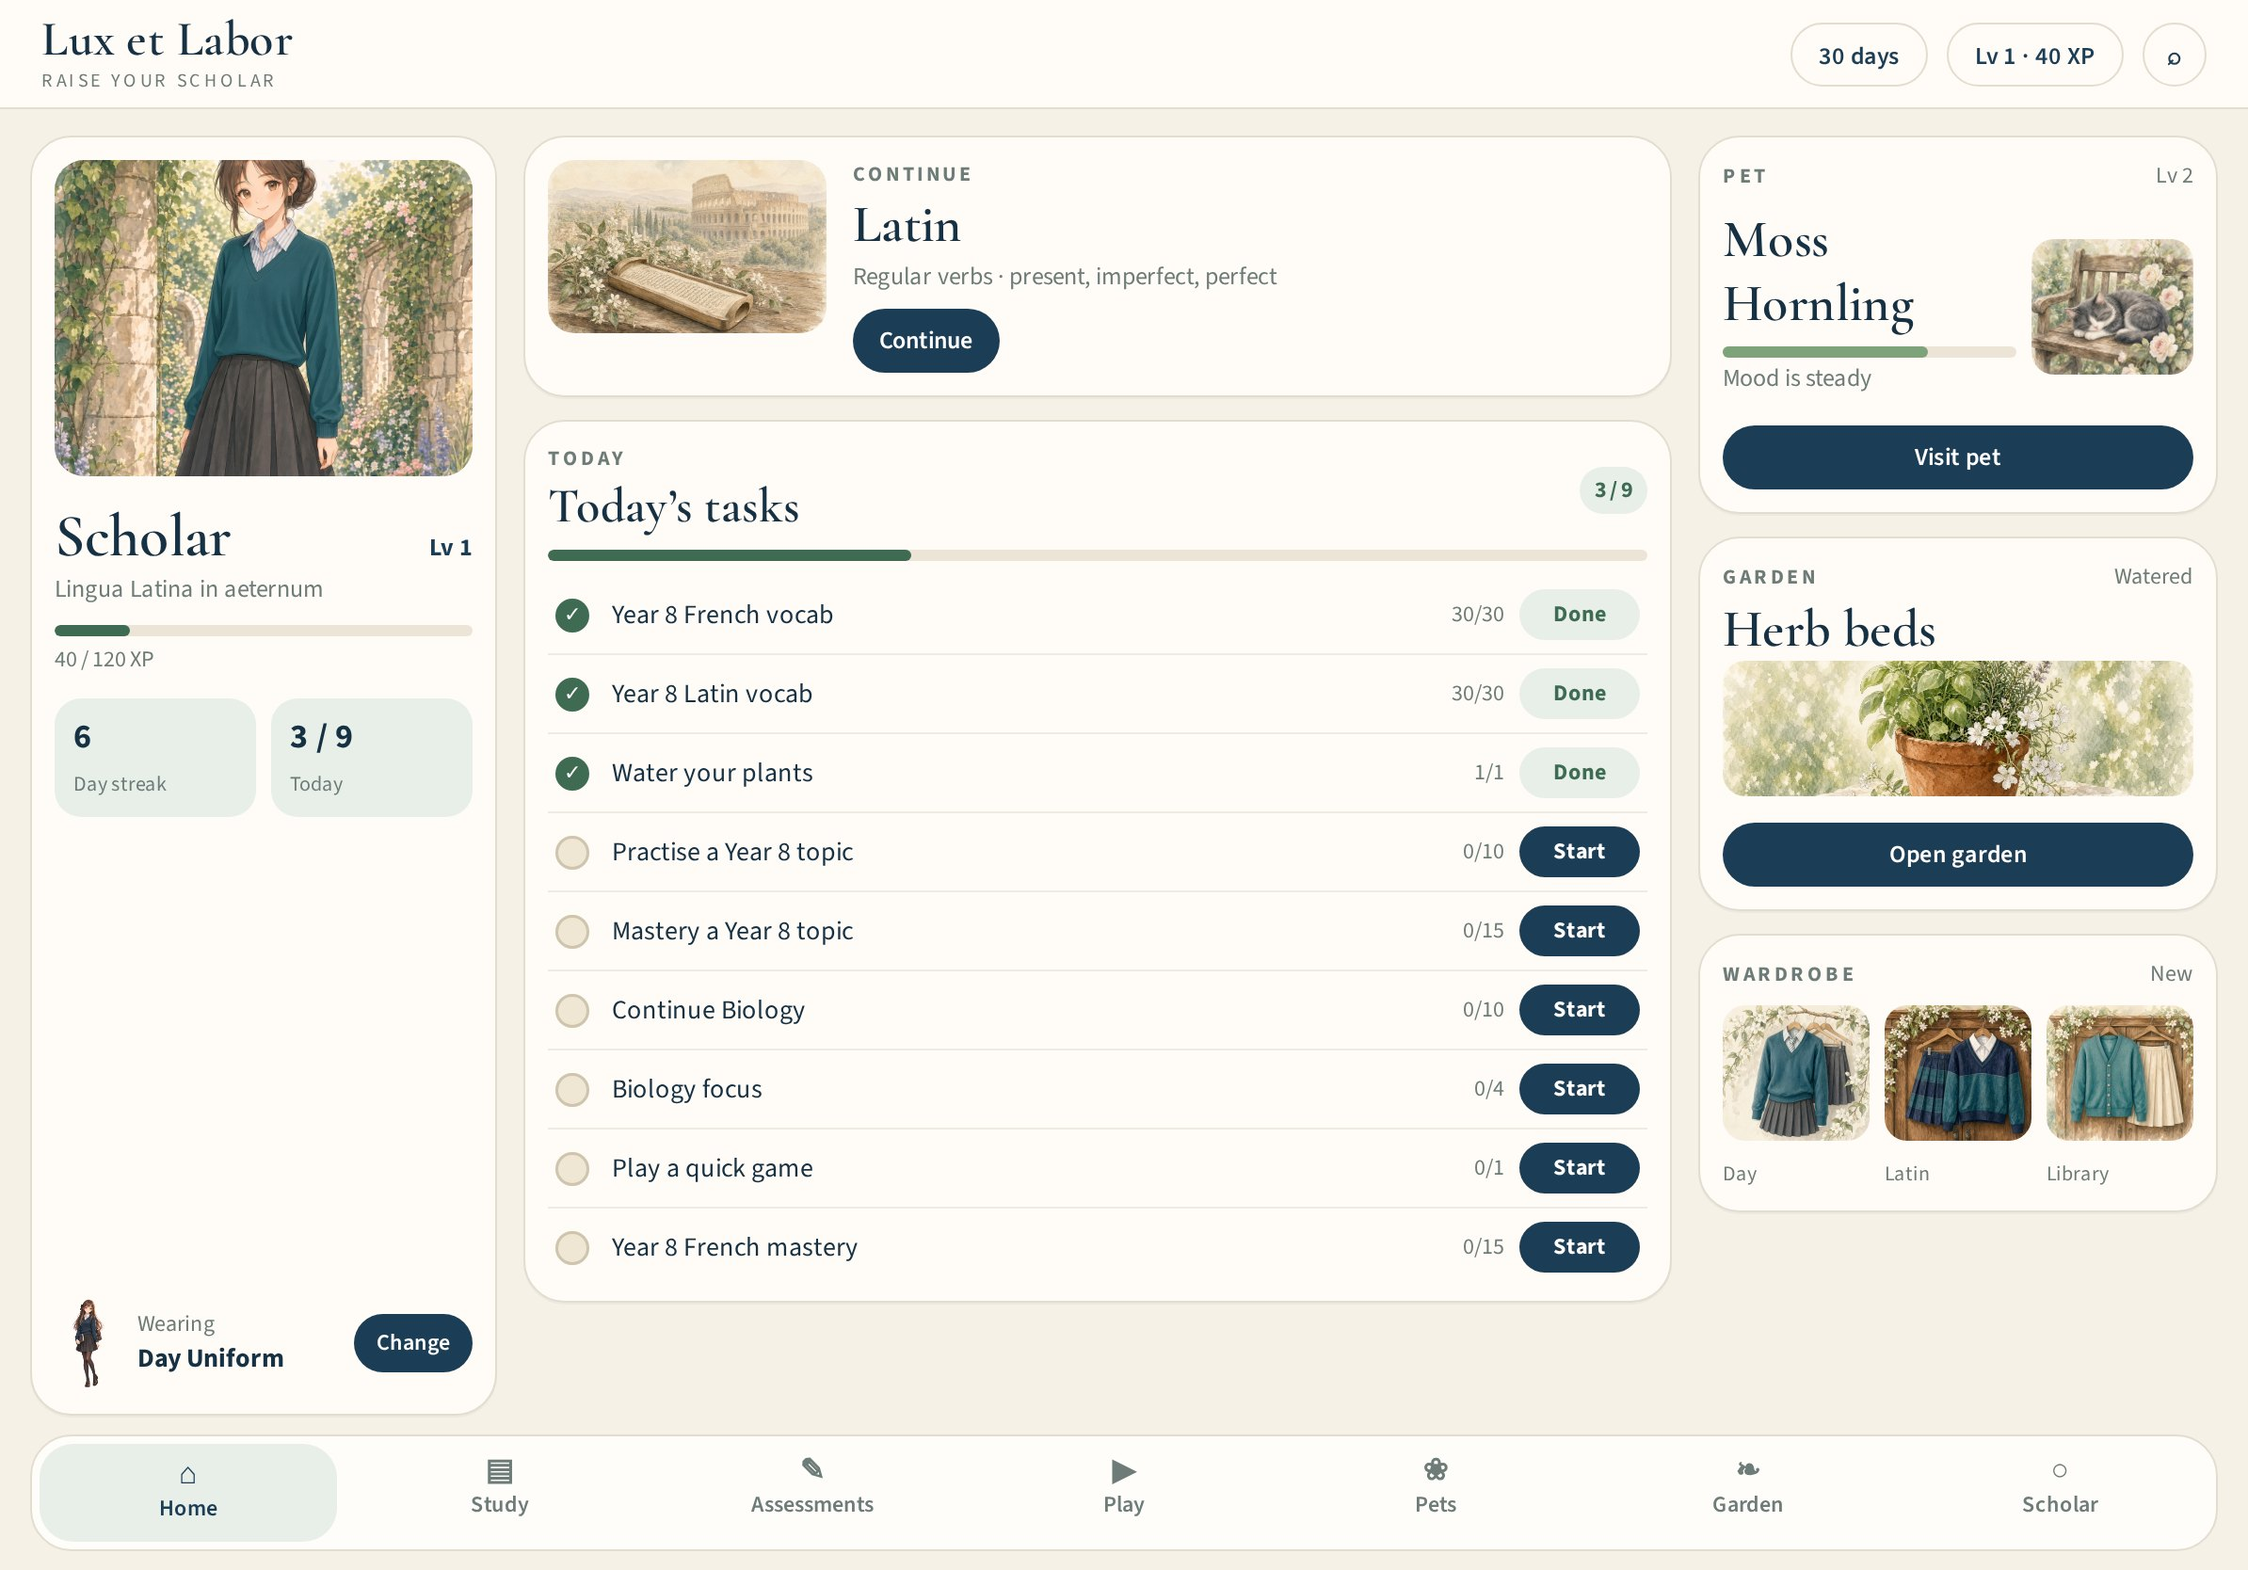
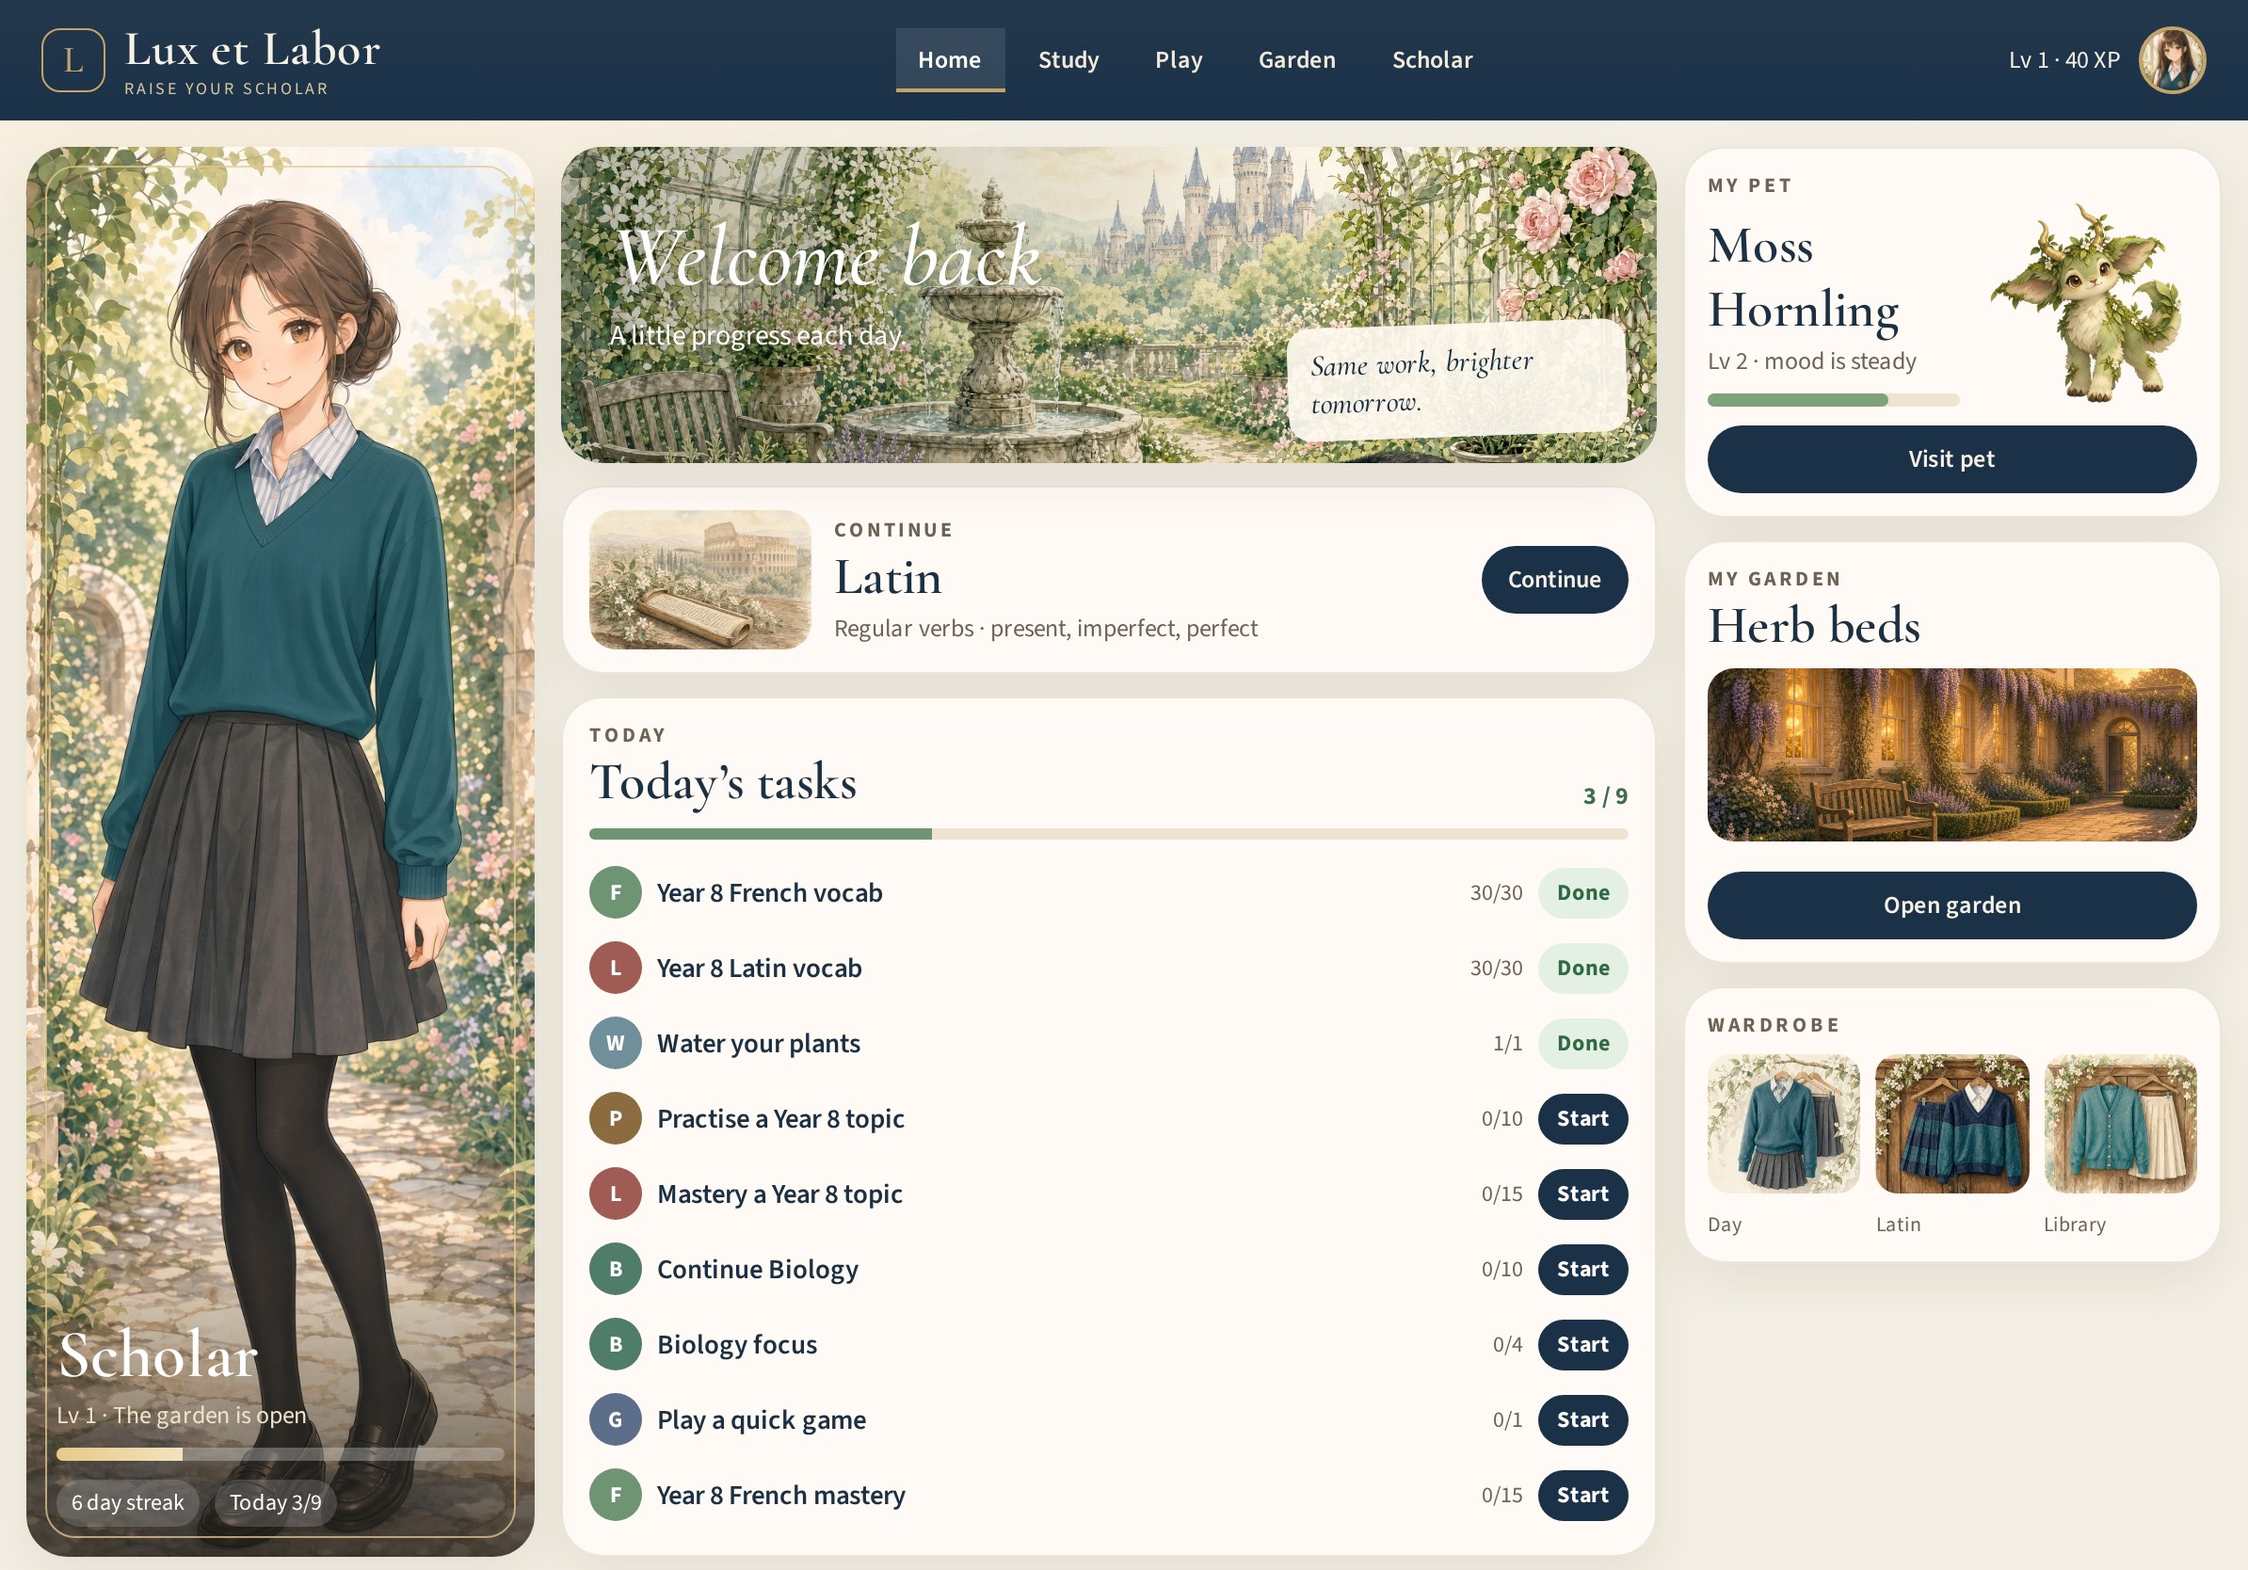
Restyle the home preview as a painted dashboard.

diff --git a/preview/index.html b/preview/index.html
@@ -3,20 +3,271 @@
 <head>
 <meta charset="utf-8">
 <meta name="viewport" content="width=device-width,initial-scale=1">
-<title>Home layout preview · Lux et Labor</title>
+<title>Home preview · Lux et Labor</title>
+<link rel="stylesheet" href="https://fonts.googleapis.com/css2?family=Cormorant+Garamond:ital,wght@0,500;0,600;1,500;1,600&family=Source+Sans+3:wght@400;500;600;700&display=swap">
 <style>
-  body{margin:0;background:#f6f1e7;font-family:Georgia,serif;color:#163044}
-  header{padding:16px 20px}
-  h1{font-size:22px;font-weight:500;margin:0}
-  p{margin:6px 0 0;font-family:-apple-system,sans-serif;font-size:14px;color:#5c6b66}
-  img{display:block;width:min(1194px,100%);height:auto;margin:12px auto 24px;border-radius:12px}
+  :root {
+    --ink: #1c3044;
+    --navy: #1a3148;
+    --gold: #c4a46a;
+    --cream: #f4efe4;
+    --card: rgba(255,251,245,.94);
+    --muted: #6e6256;
+    --line: rgba(90,70,45,.12);
+  }
+  * { box-sizing: border-box; }
+  html, body { margin: 0; height: 100%; }
+  body {
+    min-height: 100%;
+    font-family: "Source Sans 3", sans-serif;
+    color: var(--ink);
+    background:
+      radial-gradient(900px 420px at 10% -10%, rgba(255,236,205,.7), transparent 60%),
+      var(--cream);
+  }
+  .shell {
+    min-height: 100vh;
+    display: grid;
+    grid-template-rows: 64px 1fr 70px;
+  }
+  header {
+    display: flex;
+    align-items: center;
+    justify-content: space-between;
+    padding: 0 22px;
+    background: linear-gradient(180deg, #24384c, #1a3148);
+    color: #f7f1e6;
+  }
+  .brand { display: flex; align-items: center; gap: 10px; }
+  .mark {
+    width: 34px; height: 34px; border-radius: 10px;
+    display: grid; place-items: center;
+    border: 1px solid var(--gold);
+    color: var(--gold);
+    font-family: "Cormorant Garamond", serif;
+    font-size: 20px;
+  }
+  .brand b { font-family: "Cormorant Garamond", serif; font-size: 26px; font-weight: 600; letter-spacing: .02em; }
+  .brand small { display: block; letter-spacing: .16em; font-size: 9px; color: #d9c7a2; }
+  nav.top { display: flex; gap: 6px; }
+  nav.top a {
+    color: #f3eadc; text-decoration: none; font-size: 13px; font-weight: 600;
+    padding: 8px 12px; border-radius: 999px;
+  }
+  nav.top a.on { background: rgba(255,255,255,.1); color: #fff; box-shadow: inset 0 -2px 0 var(--gold); border-radius: 0; }
+  .who { display: flex; align-items: center; gap: 10px; font-size: 13px; }
+  .avatar {
+    width: 36px; height: 36px; border-radius: 50%; object-fit: cover; object-position: 50% 15%;
+    border: 2px solid var(--gold);
+  }
+  main {
+    display: grid;
+    grid-template-columns: 270px minmax(0,1fr) 286px;
+    gap: 14px;
+    padding: 14px;
+    min-height: 0;
+  }
+  .portrait, .banner, .panel, .pet, .garden, .rewards {
+    border-radius: 22px;
+    overflow: hidden;
+    box-shadow: 0 10px 28px rgba(48,36,20,.08);
+  }
+  .portrait {
+    position: relative;
+    background: #d7c4a4;
+    min-height: 100%;
+  }
+  .portrait img.full { width: 100%; height: 100%; object-fit: cover; object-position: 50% 12%; display: block; }
+  .portrait:after {
+    content: "";
+    position: absolute; inset: 10px;
+    border: 1px solid rgba(228,201,145,.75);
+    border-radius: 16px;
+    pointer-events: none;
+  }
+  .portrait .cap {
+    position: absolute; left: 0; right: 0; bottom: 0;
+    padding: 54px 16px 16px;
+    background: linear-gradient(transparent, rgba(28,24,18,.78));
+    color: #fff;
+  }
+  .portrait h2 { margin: 0; font-family: "Cormorant Garamond", serif; font-size: 36px; font-weight: 600; }
+  .portrait p { margin: 2px 0 8px; font-size: 13px; color: #f0e2cc; }
+  .xp { height: 7px; border-radius: 99px; background: rgba(255,255,255,.28); overflow: hidden; }
+  .xp i { display: block; width: 28%; height: 100%; background: linear-gradient(90deg, #e7c98a, #f3e2bc); }
+  .chips { display: flex; gap: 8px; margin-top: 10px; }
+  .chips span { background: rgba(255,255,255,.16); border-radius: 999px; padding: 4px 8px; font-size: 12px; }
+  .col { display: flex; flex-direction: column; gap: 12px; min-width: 0; }
+  .banner {
+    position: relative; height: 168px; background: #c9b89a;
+  }
+  .banner img { width: 100%; height: 100%; object-fit: cover; object-position: 50% 45%; display: block; }
+  .banner .words {
+    position: absolute; inset: 0;
+    padding: 22px 26px;
+    background: linear-gradient(90deg, rgba(28,40,32,.28), transparent 70%);
+    color: #fff;
+  }
+  .banner h2 {
+    margin: 8px 0 0;
+    font-family: "Cormorant Garamond", serif;
+    font-weight: 500;
+    font-style: italic;
+    font-size: 46px;
+    text-shadow: 0 2px 12px rgba(0,0,0,.25);
+  }
+  .banner p { margin: 4px 0 0; font-size: 15px; text-shadow: 0 1px 6px rgba(0,0,0,.3); }
+  .note {
+    position: absolute; right: 16px; bottom: 14px;
+    width: 180px; background: rgba(255,250,240,.92); color: var(--ink);
+    border-radius: 12px; padding: 10px 12px; transform: rotate(-2deg);
+    font-family: "Cormorant Garamond", serif; font-style: italic; font-size: 16px;
+  }
+  .panel { background: var(--card); border: 1px solid var(--line); padding: 12px 14px; }
+  .continue { display: grid; grid-template-columns: 118px 1fr auto; gap: 12px; align-items: center; }
+  .continue img { width: 118px; height: 74px; object-fit: cover; border-radius: 14px; }
+  .eyebrow { margin: 0; letter-spacing: .16em; font-size: 11px; color: var(--muted); font-weight: 700; }
+  h3 { margin: 0; font-family: "Cormorant Garamond", serif; font-size: 28px; font-weight: 600; }
+  .sub { margin: 2px 0 0; color: var(--muted); font-size: 13px; }
+  button.go, button.wide {
+    border: 0; background: var(--navy); color: #f7f1e6;
+    border-radius: 999px; padding: 9px 14px; font: 600 13px "Source Sans 3", sans-serif;
+  }
+  .headrow { display: flex; justify-content: space-between; align-items: end; }
+  .count { font-size: 13px; color: #3e6b52; font-weight: 700; }
+  .bar { height: 6px; background: #efe4d2; border-radius: 99px; margin: 8px 0; overflow: hidden; }
+  .bar i { display: block; width: 33%; height: 100%; background: #6e9474; }
+  ul { list-style: none; margin: 0; padding: 0; }
+  li {
+    display: grid; grid-template-columns: 28px 1fr auto auto; gap: 8px;
+    align-items: center; padding: 6px 0;
+  }
+  .ico { width: 28px; height: 28px; border-radius: 50%; display: grid; place-items: center; color: white; font-size: 12px; font-weight: 700; }
+  .f { background: #6e9474; } .l { background: #a15b55; } .w { background: #6f8f9a; }
+  .b { background: #4f7d6a; } .p { background: #8b6b3f; } .g { background: #5d6e8a; }
+  .name { font-size: 14.5px; font-weight: 600; }
+  .meta { color: var(--muted); font-size: 12px; }
+  .pill { border-radius: 999px; padding: 5px 10px; font-size: 12px; font-weight: 700; }
+  .done { background: #e5f0e4; color: #2f6a45; }
+  .start { background: var(--navy); color: white; }
+  .pet, .garden, .rewards { background: var(--card); border: 1px solid var(--line); padding: 12px; }
+  .pet { overflow: visible; }
+  .pet-row { display: grid; grid-template-columns: 1fr 120px; gap: 6px; align-items: end; }
+  .pet-row img { width: 112px; height: 112px; object-fit: contain; object-position: center bottom; }
+  .mood { height: 7px; background: #efe4d2; border-radius: 99px; margin-top: 8px; }
+  .mood i { display: block; width: 72%; height: 100%; background: #7ea37a; border-radius: 99px; }
+  button.wide { width: 100%; margin-top: 10px; }
+  .garden img { width: 100%; height: 92px; object-fit: cover; border-radius: 14px; margin-top: 6px; }
+  .tiles { display: grid; grid-template-columns: repeat(3,1fr); gap: 8px; margin-top: 8px; }
+  .tiles img { width: 100%; height: 74px; object-fit: cover; border-radius: 12px; }
+  .tiles span { display: block; font-size: 11px; color: var(--muted); margin-top: 3px; }
+  footer {
+    display: grid; grid-template-columns: repeat(7,1fr);
+    margin: 0 14px 10px; background: #fffaf3; border: 1px solid var(--line); border-radius: 20px;
+  }
+  footer a { text-align: center; text-decoration: none; color: #7a6d60; font-size: 12px; font-weight: 650; padding: 8px 0; }
+  footer a.on { color: var(--navy); }
+  .hint { display: none; }
+  @media (max-width: 980px) {
+    .hint { display: block; padding: 10px 16px; background: #1a3148; color: #f4ead8; font-size: 14px; }
+    nav.top { display: none; }
+    main { grid-template-columns: 1fr; }
+    .portrait { min-height: 420px; }
+  }
 </style>
 </head>
 <body>
-<header>
-  <h1>Home layout preview</h1>
-  <p>iPad landscape only. Not live. The 3/9 progress is a sample.</p>
-</header>
-<img src="home-layout.jpg" alt="Proposed Lux et Labor home layout">
+<p class="hint">Turn the iPad sideways to see this layout.</p>
+<div class="shell">
+  <header>
+    <div class="brand"><div class="mark">L</div><div><b>Lux et Labor</b><small>RAISE YOUR SCHOLAR</small></div></div>
+    <nav class="top">
+      <a class="on">Home</a><a>Study</a><a>Play</a><a>Garden</a><a>Scholar</a>
+    </nav>
+    <div class="who">
+      <span>Lv 1 · 40 XP</span>
+      <img class="avatar" src="/art/scholar-avatar.jpg" alt="">
+    </div>
+  </header>
+  <main>
+    <section class="portrait">
+      <img class="full" src="/art/scholar-stand.jpg" alt="Scholar in the garden">
+      <div class="cap">
+        <h2>Scholar</h2>
+        <p>Lv 1 · The garden is open</p>
+        <div class="xp"><i></i></div>
+        <div class="chips"><span>6 day streak</span><span>Today 3/9</span></div>
+      </div>
+    </section>
+    <section class="col">
+      <div class="banner">
+        <img src="/art/garden-wide.jpg" alt="">
+        <div class="words">
+          <h2>Welcome back</h2>
+          <p>A little progress each day.</p>
+        </div>
+        <div class="note">Same work, brighter tomorrow.</div>
+      </div>
+      <article class="panel continue">
+        <img src="/art/latin.jpg" alt="">
+        <div>
+          <p class="eyebrow">CONTINUE</p>
+          <h3>Latin</h3>
+          <p class="sub">Regular verbs · present, imperfect, perfect</p>
+        </div>
+        <button class="go">Continue</button>
+      </article>
+      <article class="panel" style="flex:1">
+        <div class="headrow">
+          <div><p class="eyebrow">TODAY</p><h3>Today’s tasks</h3></div>
+          <span class="count">3 / 9</span>
+        </div>
+        <div class="bar"><i></i></div>
+        <ul>
+          <li><span class="ico f">F</span><span class="name">Year 8 French vocab</span><span class="meta">30/30</span><span class="pill done">Done</span></li>
+          <li><span class="ico l">L</span><span class="name">Year 8 Latin vocab</span><span class="meta">30/30</span><span class="pill done">Done</span></li>
+          <li><span class="ico w">W</span><span class="name">Water your plants</span><span class="meta">1/1</span><span class="pill done">Done</span></li>
+          <li><span class="ico p">P</span><span class="name">Practise a Year 8 topic</span><span class="meta">0/10</span><span class="pill start">Start</span></li>
+          <li><span class="ico l">L</span><span class="name">Mastery a Year 8 topic</span><span class="meta">0/15</span><span class="pill start">Start</span></li>
+          <li><span class="ico b">B</span><span class="name">Continue Biology</span><span class="meta">0/10</span><span class="pill start">Start</span></li>
+          <li><span class="ico b">B</span><span class="name">Biology focus</span><span class="meta">0/4</span><span class="pill start">Start</span></li>
+          <li><span class="ico g">G</span><span class="name">Play a quick game</span><span class="meta">0/1</span><span class="pill start">Start</span></li>
+          <li><span class="ico f">F</span><span class="name">Year 8 French mastery</span><span class="meta">0/15</span><span class="pill start">Start</span></li>
+        </ul>
+      </article>
+    </section>
+    <aside class="col">
+      <section class="pet">
+        <p class="eyebrow">MY PET</p>
+        <div class="pet-row">
+          <div>
+            <h3>Moss Hornling</h3>
+            <p class="sub">Lv 2 · mood is steady</p>
+            <div class="mood"><i></i></div>
+          </div>
+          <img src="/pet/art-master/moss-hornling.png" alt="Moss Hornling">
+        </div>
+        <button class="wide">Visit pet</button>
+      </section>
+      <section class="garden">
+        <p class="eyebrow">MY GARDEN</p>
+        <h3>Herb beds</h3>
+        <img src="/art/stages/dusk.jpg" alt="Garden at dusk">
+        <button class="wide">Open garden</button>
+      </section>
+      <section class="rewards">
+        <p class="eyebrow">WARDROBE</p>
+        <div class="tiles">
+          <div><img src="/art/closet/day.jpg" alt=""><span>Day</span></div>
+          <div><img src="/art/closet/latin.jpg" alt=""><span>Latin</span></div>
+          <div><img src="/art/closet/library.jpg" alt=""><span>Library</span></div>
+        </div>
+      </section>
+    </aside>
+  </main>
+  <footer>
+    <a class="on">Home</a><a>Study</a><a>Assessments</a><a>Play</a><a>Pets</a><a>Garden</a><a>Scholar</a>
+  </footer>
+</div>
 </body>
 </html>
